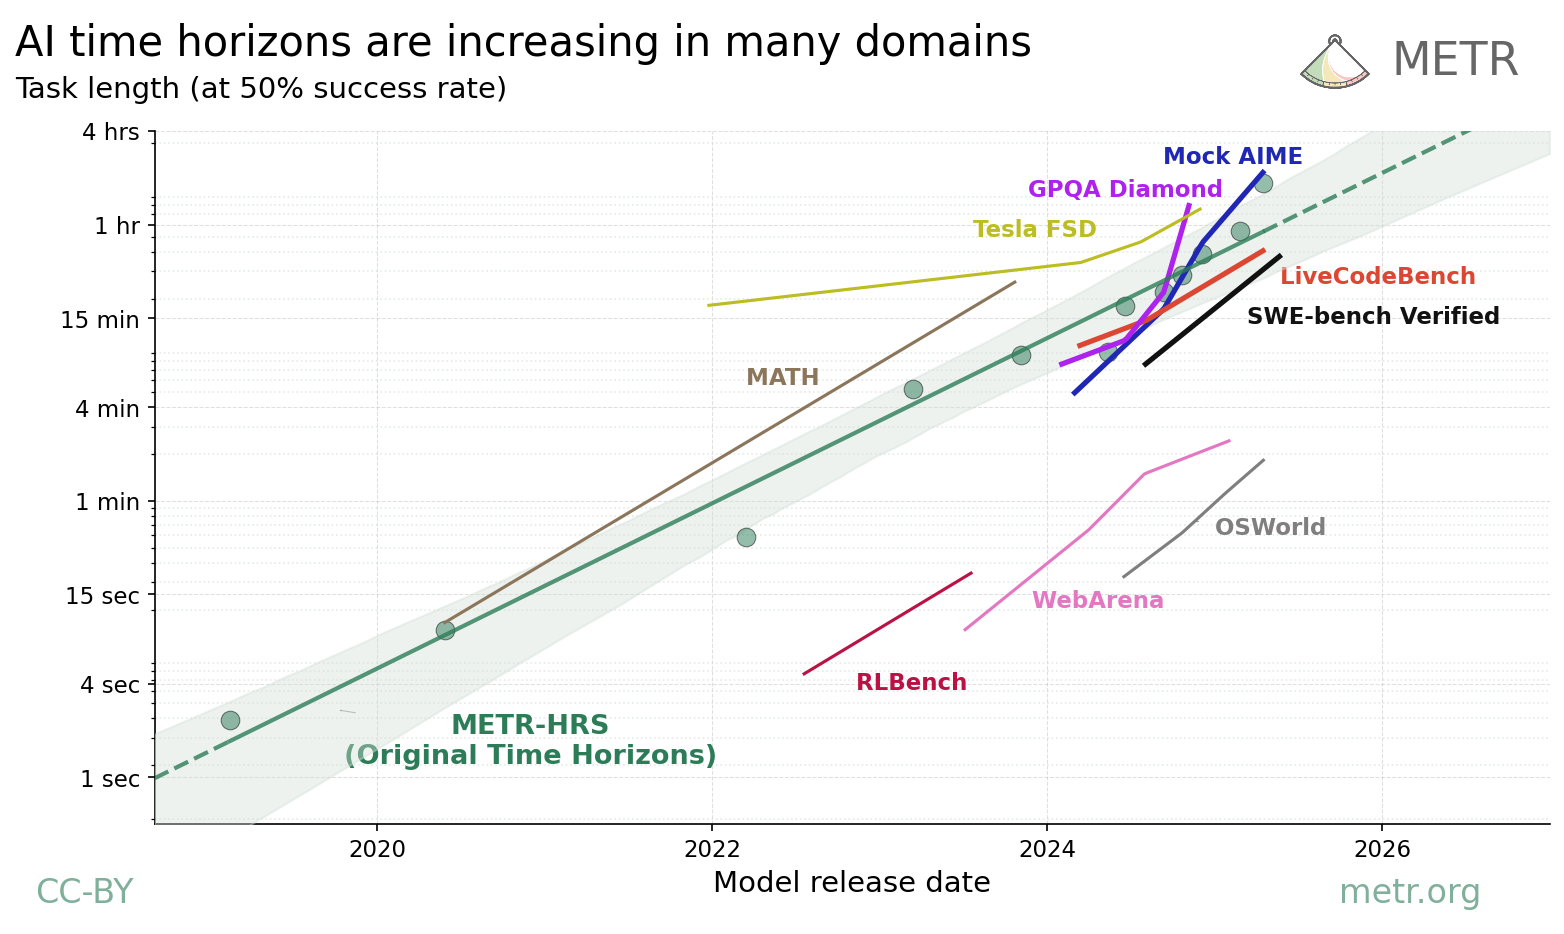
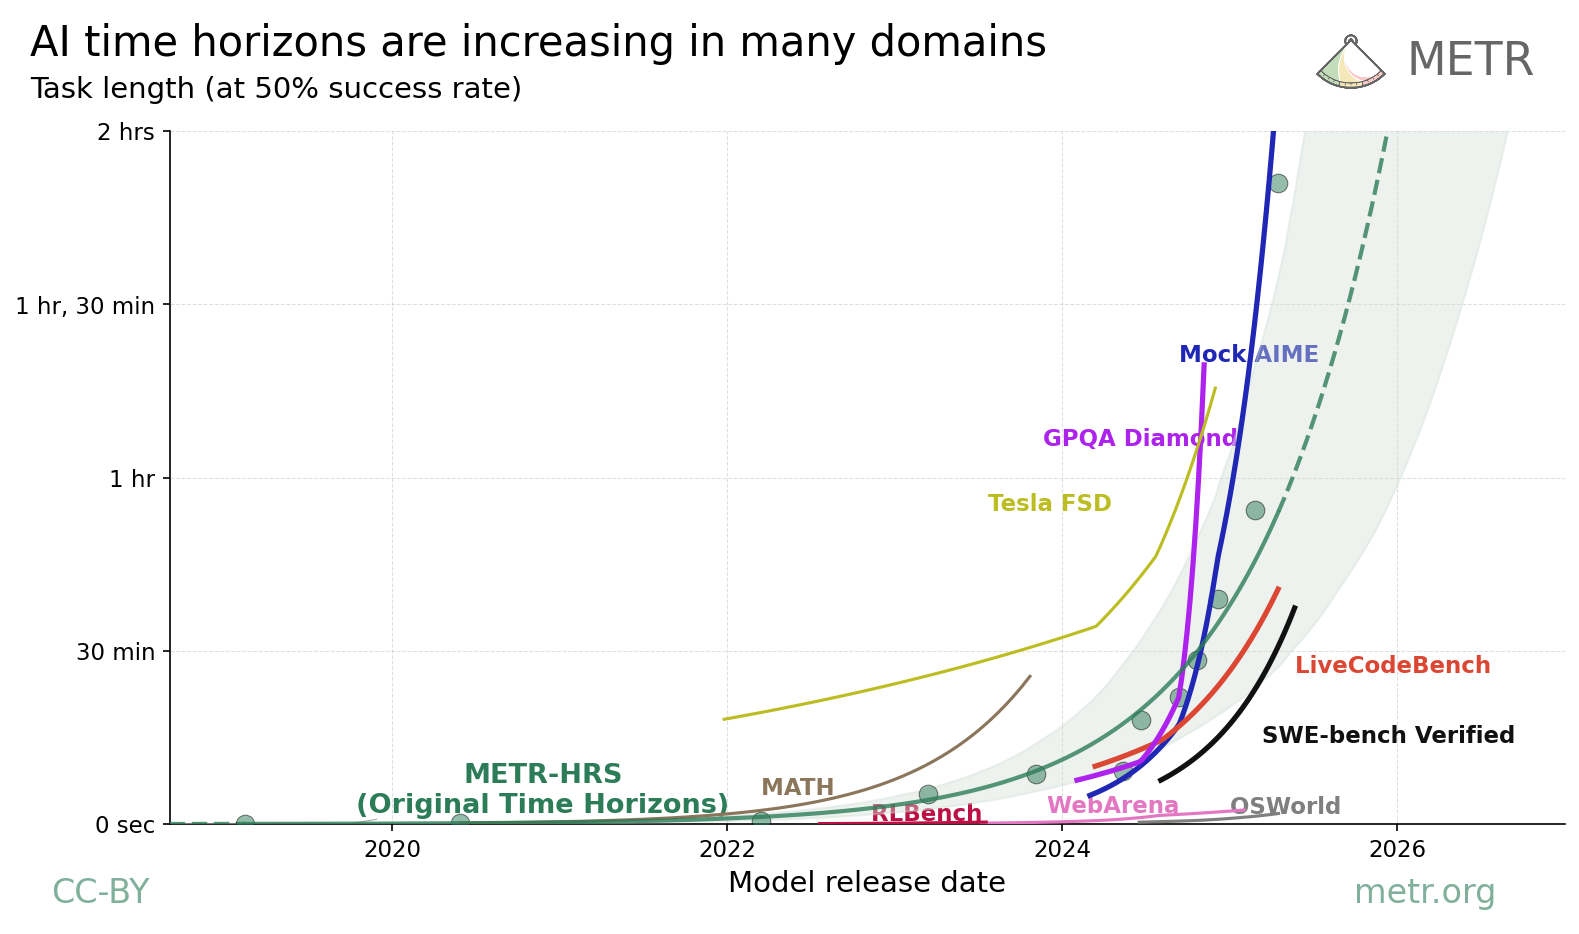
linear y axis + some label adjustments

diff --git a/combined.py b/combined.py
@@ -81,6 +81,9 @@ class CombinedPlotParams:
     agent_point_color: str = "#2c7c58"  # Color for individual agent points (same green as HRS line)
     agent_point_size: int = 80 # Size of individual agent points
     show_model_names: bool = False  # Show model names on points (controlled by --model-names flag)
+    
+    # Axis scale parameters
+    log_y_axis: bool = True  # Use logarithmic y-axis (False for linear)
 
 
 def get_benchmark_data(benchmarks_path) -> pd.DataFrame:
@@ -761,6 +764,7 @@ def plot_combined(df, output_file,
                 
                 if bench in ['hendrycks_math', 'tesla_fsd', 'swe_bench_verified','webarena','rlbench', 'mock_aime', 'livecodebench_2411_2505', 'gpqa_diamond']:
                     # Manual positioning for these specific benchmarks
+                    lya = params.log_y_axis
                     if bench == 'hendrycks_math':
                         label_y *= 3
                     elif bench == 'tesla_fsd':
@@ -769,19 +773,19 @@ def plot_combined(df, output_file,
                         label_y *= 0.9  
                         label_x += pd.Timedelta(days=40)  
                     elif bench == 'webarena':
-                        label_y *= 0.3
+                        label_y *= 0.3 if lya else 4
                         label_x += pd.Timedelta(days=-180)
                     elif bench == 'rlbench':
-                        label_y *= 0.4
+                        label_y *= 0.4 if lya else 10
                         label_x += pd.Timedelta(days=-110)
                     elif bench == 'mock_aime':
-                        label_y *= 8
+                        label_y *= 8 if lya else 4
                         label_x += pd.Timedelta(days=-50)
                     elif bench == 'livecodebench_2411_2505':
                         label_y *= 1.5
                         label_x += pd.Timedelta(days=200)
                     elif bench == 'gpqa_diamond':
-                        label_y *= 9
+                        label_y *= 9 if lya else 6
                         label_x += pd.Timedelta(days=-250)
                     
                     # Create text but don't add to line_end_labels (won't be adjusted by adjustText)
@@ -819,12 +823,15 @@ def plot_combined(df, output_file,
                 text_label(last_frontier_point)
     
     # Configure plot appearance
-    ax.set_yscale('log')  # Log scale for y-axis (time horizon)
-    plt.ylim(0.0083333, 240)  # Y-axis range in minutes (0.0083333 = 0.5 seconds), high is 2000 minutes which is hard-coded
+    scale = 'log' if params.log_y_axis else 'linear'
+    if params.log_y_axis:
+        plt.ylim(0.0083333, 240)  # Y-axis range in minutes (0.0083333 = 0.5 seconds)
+    else:
+        plt.ylim(0, 120)  # Linear scale starts at 0
     
     # Create script params with y_ticks_skip to show every other tick
     script_params = {'y_ticks_skip': 2}
-    make_y_axis(ax, scale='log', unit='minutes', script_params=script_params)
+    make_y_axis(ax, scale=scale, unit='minutes', script_params=script_params)
     
     # Labels and title
     plt.xlabel("Model release date", fontsize=14)
@@ -976,7 +983,8 @@ def main():
         show_individual_agents=True,  # Show red dots for individual models
         show_model_names=args.model_names,  # Show model names based on command-line flag
         title=title,
-        xbound=(x_lim_start, x_lim_end)  # Use config values for x-axis limits
+        xbound=(x_lim_start, x_lim_end),  # Use config values for x-axis limits
+        log_y_axis=False
     )
 
     params.hide_labels = ["hcast_r_s"]
